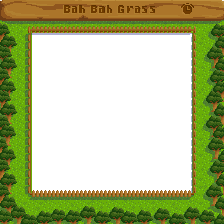
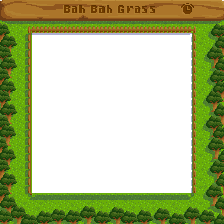
fix feet inside of lower fence

Changed region(s): [[0.125, 0.8438, 0.875, 0.9062]]

diff --git a/src/js/main.js b/src/js/main.js
@@ -146,6 +146,9 @@ function preloadImages() {
   // key art
   images.key_art = {};
   images.key_art.border = loadImage("./assets/images/keyart_border.png");
+  images.key_art.lower_fence = loadImage(
+    "./assets/images/keyart_lowerfence.png"
+  );
 
   // seed
   images.seed_sprout = loadImage("./assets/images/sprout.png");

diff --git a/src/js/playScene.js b/src/js/playScene.js
@@ -115,6 +115,9 @@ export function draw() {
   drawPlayers();
   pop();
 
+  // draw lower fence
+  image(images.key_art.lower_fence, 0, 0, 224, 224);
+
   drawUI();
 }
 
